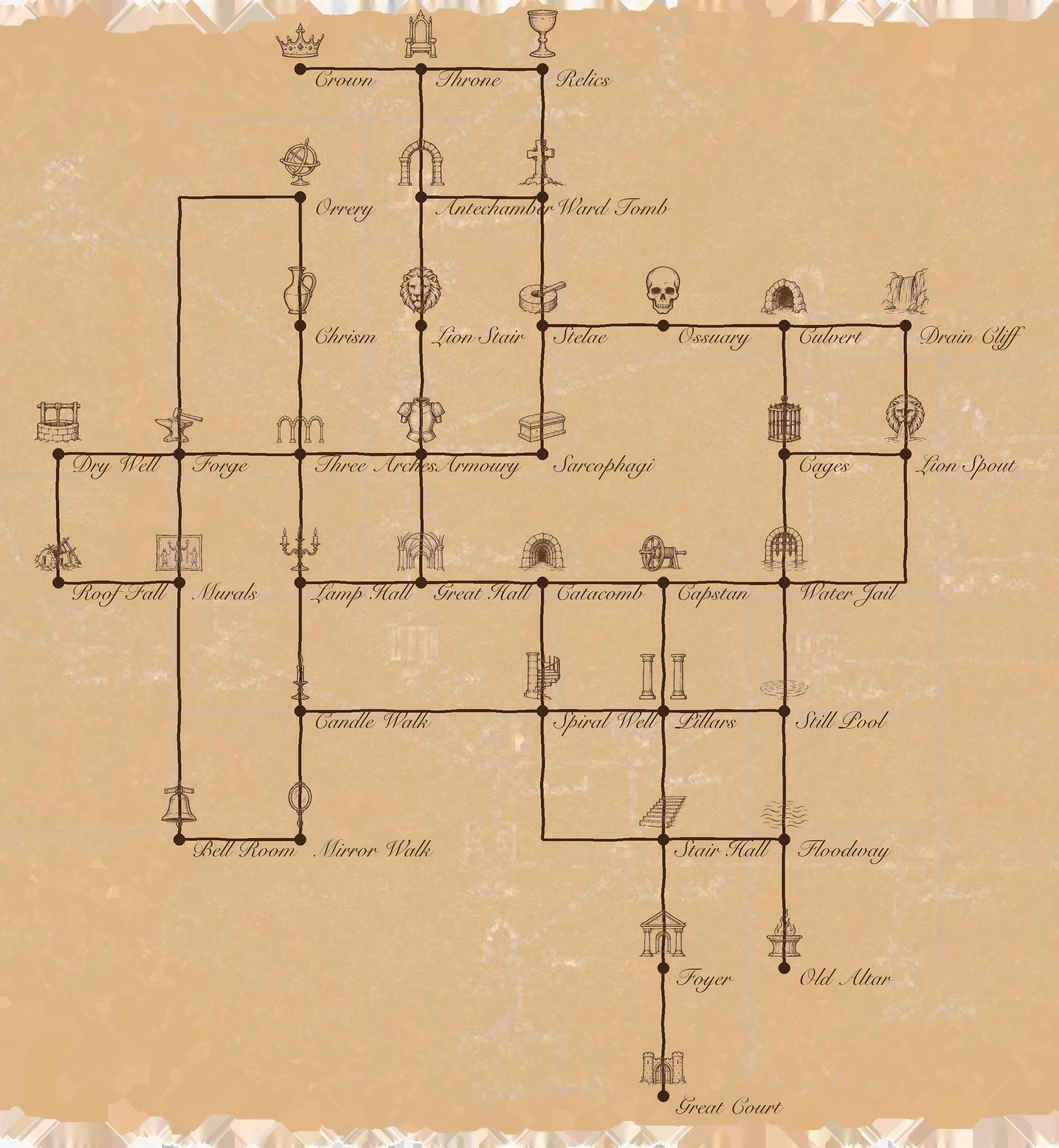
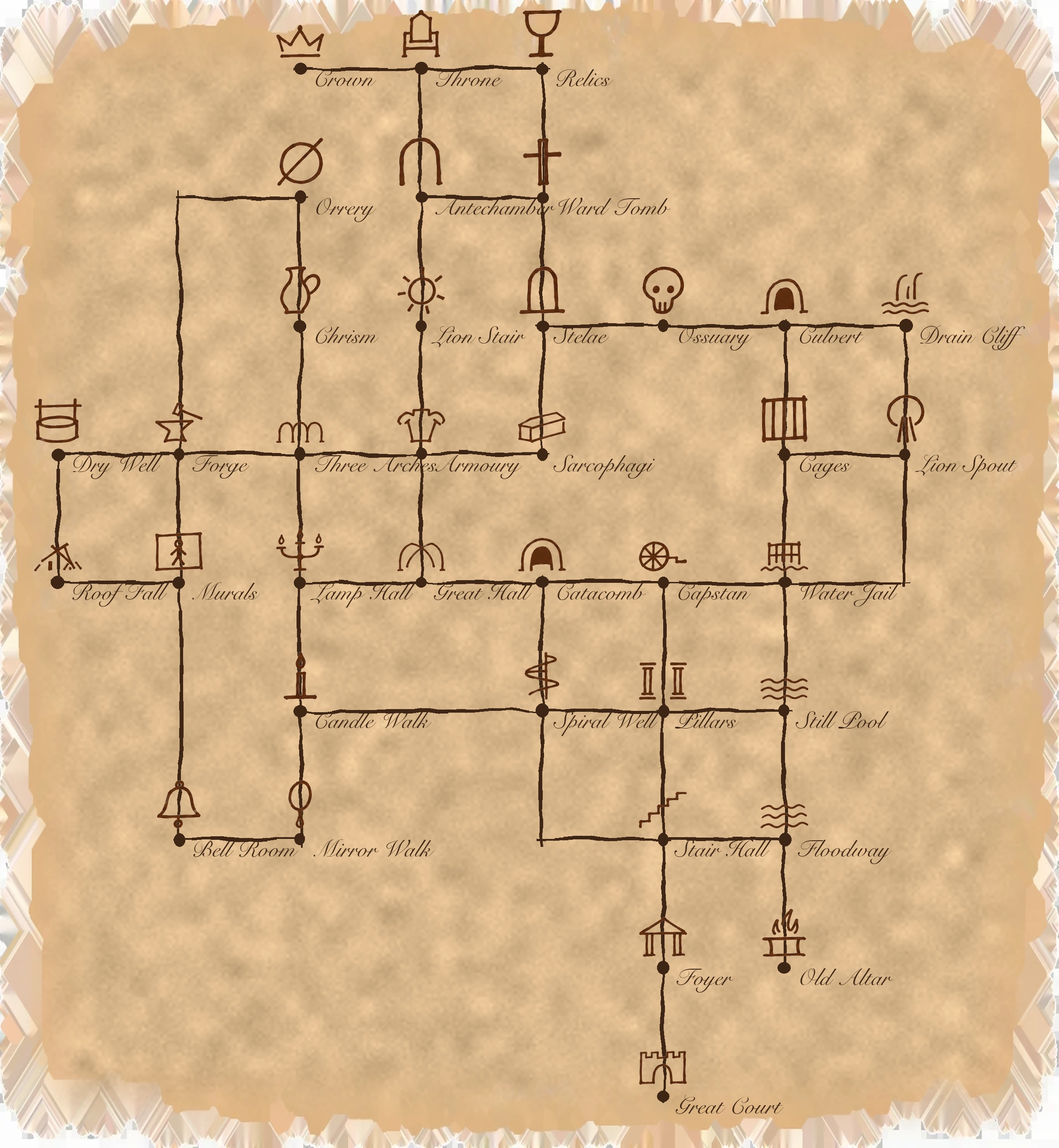
art: 天空/古城/平原交件 ＋ 飛行素材改正面 ＋ 小地圖手繪化（ver -1443）
背景（5 張新）
  Sky_Towers_day / Sky_Cumulus_day        空戰天空（雲塔 day、雲海 day＝去掉月亮的版本）
  Belisar_Foyer_dusk                      前廳有破頂天光 ⇒ 該有差分
  Plains_Cairn_dusk / _night              平原古道石塚群

  驗收一律走 tools/band_audit.py 的 HOG 構圖相似度（校準：無關 0.889／
  被重畫 0.93／只換光 0.97~0.99）：這五張是 0.987~0.994，夜景再過一次星座線偵測。

飛行素材：王座徘徊者改成**正面迎面**
  Ray 更正兩次 —— ①「飛行圖用不到側面，只做正面、精度拉高」②「其實用第三型態就好」。
  所以 view_0 不再另畫，直接由 mon_dragon_v1_flight.webp（第三型態・正面飛行）
  重新取景：主體縮到畫面中央 76%（四邊各留 ≥12%）、畫布 1536×1596（＝舊素材的
  同一個長寬比，程式端數值不必重調）、alpha ≥248→255。
  ⚠ 三帶要換成 head 0.330 / wings 0.588（舊值 0.079/0.368 是俯視素材的）——
    規格與量法寫在 resources/enemy/_flight_sprite_handoff.md。

  連帶把程式端已回收的死檔（FLM_CENTIPI view_1~5、FLM_Serpent 五張）的刪除一起提交
  —— plan:'chain' 的怪只讀 sprite.dorsal 一張，那些從來沒有人載。空賊船那一族不動。

小地圖：古城換成合成的乾淨羊皮紙
  舊版的紙是「把舊地圖的墨補掉」做的，殘留鬼影；改成紙色中位數＋三層噪聲合成，
  四邊把原圖的撕邊貼回去。

NPC 去背：NPC_GuildCounter_SI_v1（全透 0% → 71.0%，α=255 補到 27.5%）

回收：Belisar_SunkenCourtB（courtyard 節點 -1378 移除後成孤兒，Ray 指示回收）

憲法（§5 三條，全部是 Ray 這一輪定的）
  · 小地圖＝手繪簡筆的隨手筆記，圖示約 5 筆（3~6 筆），直線也要自然歪斜
    ＋「抽象是換成剪影，不是畫小」的四個逐格示例
  · 飛行地圖的怪只做正面一張（**正面＝頭朝觀看者飛來，不是俯視**），精度拉高
  · 不要畫出會被裁的東西 —— 四邊各留 ≥12%；換 sprite 不要順手換長寬比

diff --git a/resources/enemy/_flight_sprite_handoff.md b/resources/enemy/_flight_sprite_handoff.md
@@ -29,15 +29,50 @@ im.src = sp.dir + sp.dorsal;      // 怪的 sprite 只有這一行在載圖
 
 ## 二、程式端要改的（只有兩處，都在資料上）
 
-### 1. 王座徘徊者：換 sprite ＋ **重量三帶**
+### 0. ✔ 王座徘徊者的素材**已經交件**（ver -1443）
+
+```
+flight/enemy/FLM_DragonThrone/view_0.webp   1536×1596  360 KB
+```
+
+⚠⚠ **它就是第三型態的立繪**（Ray：「這樣的話**用第三型態就好**」）——
+既然飛行素材是**正面迎面**，那與 `resources/enemy/mon_dragon_v1_flight.webp`
+（第三型態・正面飛行）**是同一張圖**，不必另外畫一張（鐵律 7：同一個東西不要兩份）。
+交件做的只有**重新取景**：
+
+| 步驟 | 參數 |
+|---|---|
+| 取主體外框（alpha>8）、置中 | —— |
+| 縮到**畫面中央 76%**（四邊各留 ≥12%） | `FILL=0.76` |
+| 畫布 | **1536×1596**（＝舊素材 1230×1278 的同一個長寬比 0.9624，程式端的數值不必重調） |
+| alpha 天花板 | **≥248 → 255**（GPT 那一族主體最大只有 254） |
+
+驗收：最小留白 **12.0%**、四邊貼邊像素 **0**、α=255 **15.3%**。
+
+⚠ 舊的 `view_0.webp` 與 `resources/Flight_Enemy/FLM_DragonThrone.png` 已進回收區
+（後者不再需要 —— 來源就是 `mon_dragon_v1_flight.webp`）。
+
+### 1. 王座徘徊者：**三帶要換**（素材已換，數字還沒）
 
 新素材交件後（`flight/enemy/FLM_DragonThrone/view_0.webp` 同名覆蓋），
 `flight/index.html` 的 `bldragon` 那一筆：
 
 ```js
 sprite:{ dir:'enemy/FLM_DragonThrone/', dorsal:'view_0.webp',
-         head:[0.00, A], wings:[A, B], body:[B, 1.00] },   // ← A / B 由美術量完給
+         head:[0.00, 0.330], wings:[0.330, 0.588], body:[0.588, 1.00] },
 ```
+
+**量出來的就是這三個**（舊值是 `0.079 / 0.368`，那是俯視素材的）：
+
+| 帶 | 舊（俯視） | **新（正面）** |
+|---|---|---|
+| head | 0.000~0.079 | **0.000~0.330** |
+| wings | 0.079~0.368 | **0.330~0.588** |
+| body | 0.368~1.000 | **0.588~1.000** |
+
+⚠ 差很多是**視角換了**的必然結果：俯視時頭只佔 7.9%，正面迎面時頭朝鏡頭、
+佔了畫面上三分之一。**不換的話拍翼會抓到頭。**
+量法：逐列的不透明像素寬度 → 最寬處的 62% 當翼展的上下界。
 
 ⚠⚠ **三個數字一定要跟著換**：那是**逐隻量出來的**（羽蛇的頭佔 16.5%、
 王座徘徊者只佔 7.9% —— 蛇有長頸，這一隻的頭直接接在肩上）。照抄舊值或別隻的值，
@@ -71,9 +106,9 @@ flight/enemy/FLM_Serpent/view_0,1,2,4,5.webp            （5 張，它讀的是 
 
 | 項 | 規格 |
 |---|---|
-| 張數 | **1 張**（`view_0.webp`，正俯視的正面） |
+| 張數 | **1 張**（`view_0.webp`，**正面：頭朝觀看者飛來**） |
 | 來源尺寸 | **1536×2048 起跳**（舊的是 1024×1536） |
-| 透視 | 身體有厚度、翼膜有弧度、尾巴因為往後而**透視縮短**；⛔ 不要左右對稱的平面紋章 |
+| 透視 | 頭最近最大、身體與尾巴往深處**透視縮短**；翼膜有弧度往前包；⛔ 不要平面紋章、⛔ 不要俯視 |
 | 背景 | 真 alpha（GPT 重製去背，不要自動去背） |
 | 細節密度 | **比立繪低一階** —— 它在畫面上只有一兩百像素高，剪影與大色塊才是關鍵 |
 | 交件單要附 | **`head`／`wings`／`body` 三個切分比例**（美術量，程式照抄） |

diff --git a/CLAUDE.md b/CLAUDE.md
@@ -826,18 +826,31 @@ SPEC.md             行為規格
 > Ray：「飛行圖基本用不到側面，不如把正面精緻化，**以龍為例只做正面，精度拉高，
 >   透視正確**，只作正面應該不難」
 
-**一隻怪一張 `view_0`（正俯視的正面），不要再做六視圖。** 省下來的力氣全部放在那一張上。
+**一隻怪一張 `view_0`（**正面 —— 頭朝觀看者飛過來**），不要再做六視圖。**
+
+⚠⚠⚠ **「正面」是字面的正面，不是俯視**（ver -1442，Ray 更正我：「圖應該是正面，
+龍頭朝 viewer 飛來才對」）。飛行畫面的鏡頭是**朝前看的**（VoxelSpace 那一套），
+不是從正上方往下看 —— 所以怪是**迎面飛來**的一張貼片，不是俯視圖。
+我第一版做成俯視是讀錯了，留著當紀錄。 省下來的力氣全部放在那一張上。
 
 - **為什麼**：飛行地圖是**從空中俯瞰**的，玩家幾乎永遠從正上方／正後方看到那隻怪 ——
   側面與背面在畫面上出現的時間趨近於零。既有的六視圖（`FLM_Serpent`／`FLM_CENTIPI`／
   `FLH_Pirate`）是**每一張都只有六分之一的預算**，結果是六張都不夠好。
 - **那一張要做到**：
-  · **正俯視**（從正上方往下看），頭朝畫面上方、尾往下延伸
+  · **正面迎面**：頭在畫面中央偏上、朝向觀看者，雙翼往左右展開，
+    身體與尾巴**往畫面深處退去**（透視縮短、逐漸變小）
   · **透視正確** —— 身體有厚度、翼膜有弧度、尾巴因為往後而**透視縮短**；
     ⛔ 不要畫成左右對稱的平面紋章（那是現行 `FLM_DragonThrone` 的毛病）
   · **精度拉高**：來源 1536×2048 起跳（舊的是 1024×1536），細節密度比立繪低一階就好
     —— 它在畫面上只有一兩百像素高，**剪影與大色塊才是關鍵**
   · **真 alpha**（§5 的去背那一條：叫 GPT 重製，不要自動去背）
+- ⚠⚠⚠ **不要畫出會被裁的東西 —— 四邊各留至少 12% 空白**（ver -1442，Ray：「龍的飛行怪
+  被裁，不要畫出會被裁的東西」）。實測被退的那一版：輪廓佔到 **1.5%~98.4%（左右）、
+  2.3%~98.3%（上下）**，幾乎貼滿整張 —— 引擎照帶狀切分縮放貼上去，貼邊的翼尖與尾巴
+  第一個被切掉。**主體只佔畫面中央約 76%**，翼尖／爪尖／尾端／頭角全部離邊緣遠遠的。
+  ⚠ 這與立繪那條「整隻入框」是同一個病的兩種說法：**「有入框」不等於「留了餘裕」。**
+- ⚠⚠ **換 sprite 不要順手換長寬比**：程式那邊是照現行比例調過 `bodyLen`／帶狀切分的，
+  比例一動，那幾個數字全部要重調。要換比例先講。
 - ⚠⚠ **換掉 sprite 就要重量「帶狀切分」**（`flight/index.html` 的 head／wings／body 三段
   比例）—— 那是**逐隻量出來的**（羽蛇的頭佔 16.5%、王座徘徊者只佔 7.9%），
   照抄別隻會讓拍翼時頭跟著晃。**美術量完把三個數字寫進交件單**，程式端照著改（鐵律 11）。
